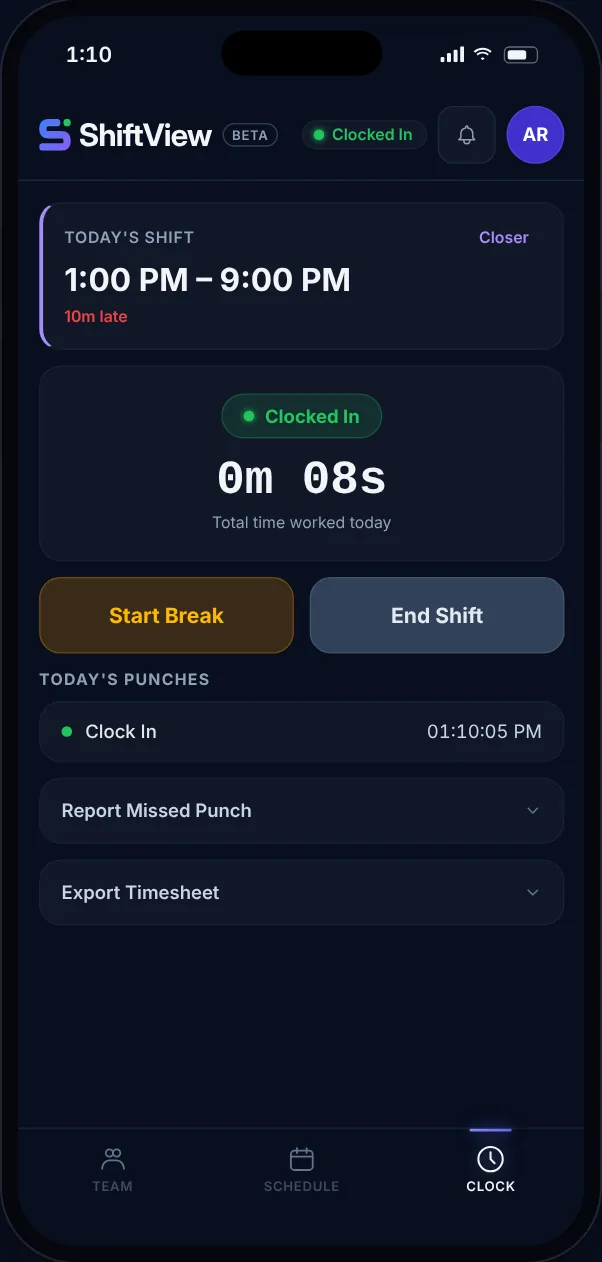
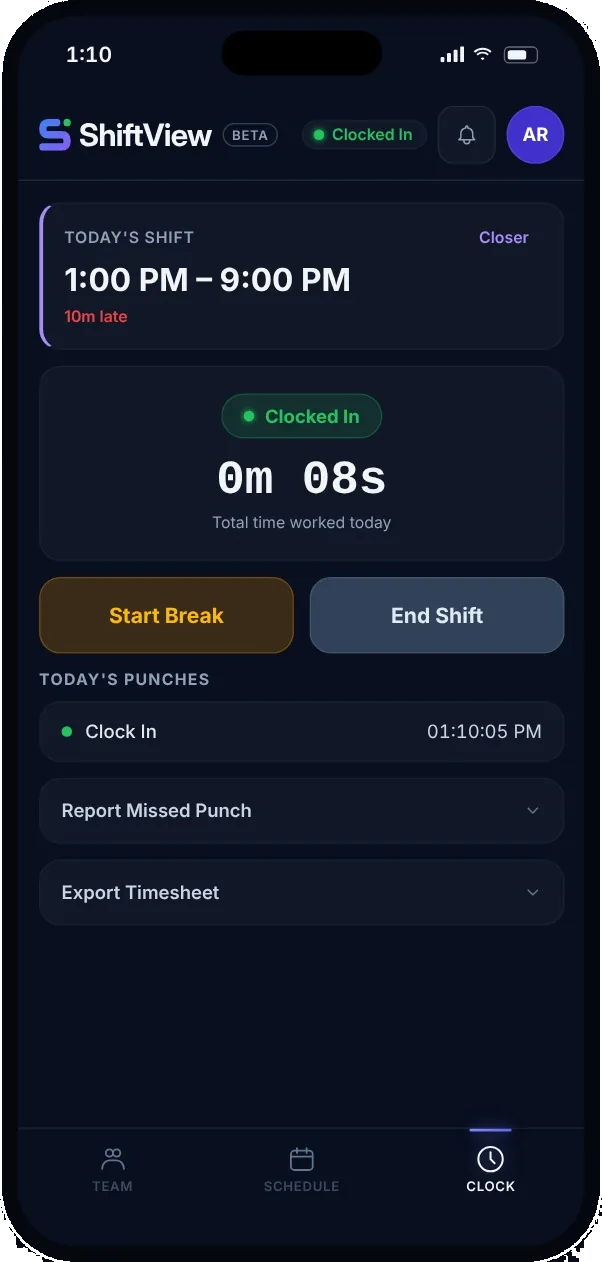
Remove the box around the ShiftView phone shots
Phone captures skip the border, and their backgrounds outside the device
frame are now transparent.

Claude-Session: https://claude.ai/code/session_01XtnSnHk9sC8vF4FUsgm6FN

Changed region(s): [[0.897, 0.0, 1.0, 1.0], [0.0, 0.0, 0.1196, 1.0]]

diff --git a/src/components/shot.tsx b/src/components/shot.tsx
@@ -7,6 +7,7 @@ export function Shot({
   height,
   base = "",
   className = "",
+  bare = false,
 }: {
   name: string;
   alt: string;
@@ -14,12 +15,26 @@ export function Shot({
   height: number;
   base?: string;
   className?: string;
+  // Phone captures already carry their own device frame, so they skip the border.
+  bare?: boolean;
 }) {
-  const frame = `h-auto w-full rounded-ui border border-border ${className}`;
+  const frame = `h-auto w-full ${bare ? "" : "rounded-ui border border-border"} ${className}`;
   return (
     <>
-      <img src={`${base}img/shiftview/${name}-dark.webp`} alt={alt} width={width} height={height} className={`hidden dark:block ${frame}`} />
-      <img src={`${base}img/shiftview/${name}-light.webp`} alt={alt} width={width} height={height} className={`block dark:hidden ${frame}`} />
+      <img
+        src={`${base}img/shiftview/${name}-dark.webp`}
+        alt={alt}
+        width={width}
+        height={height}
+        className={`hidden dark:block ${frame}`}
+      />
+      <img
+        src={`${base}img/shiftview/${name}-light.webp`}
+        alt={alt}
+        width={width}
+        height={height}
+        className={`block dark:hidden ${frame}`}
+      />
     </>
   );
 }

diff --git a/src/app/page.tsx b/src/app/page.tsx
@@ -161,12 +161,14 @@ export default function Home() {
                 <div className="grid max-w-[520px] grid-cols-2 gap-4">
                   <Shot
                     name="phone-clock"
+                    bare
                     alt="ShiftView time clock on a phone, clocked in with a running timer."
                     width={602}
                     height={1262}
                   />
                   <Shot
                     name="phone-team"
+                    bare
                     alt="ShiftView team view on a phone, listing who is here now."
                     width={600}
                     height={1262}
